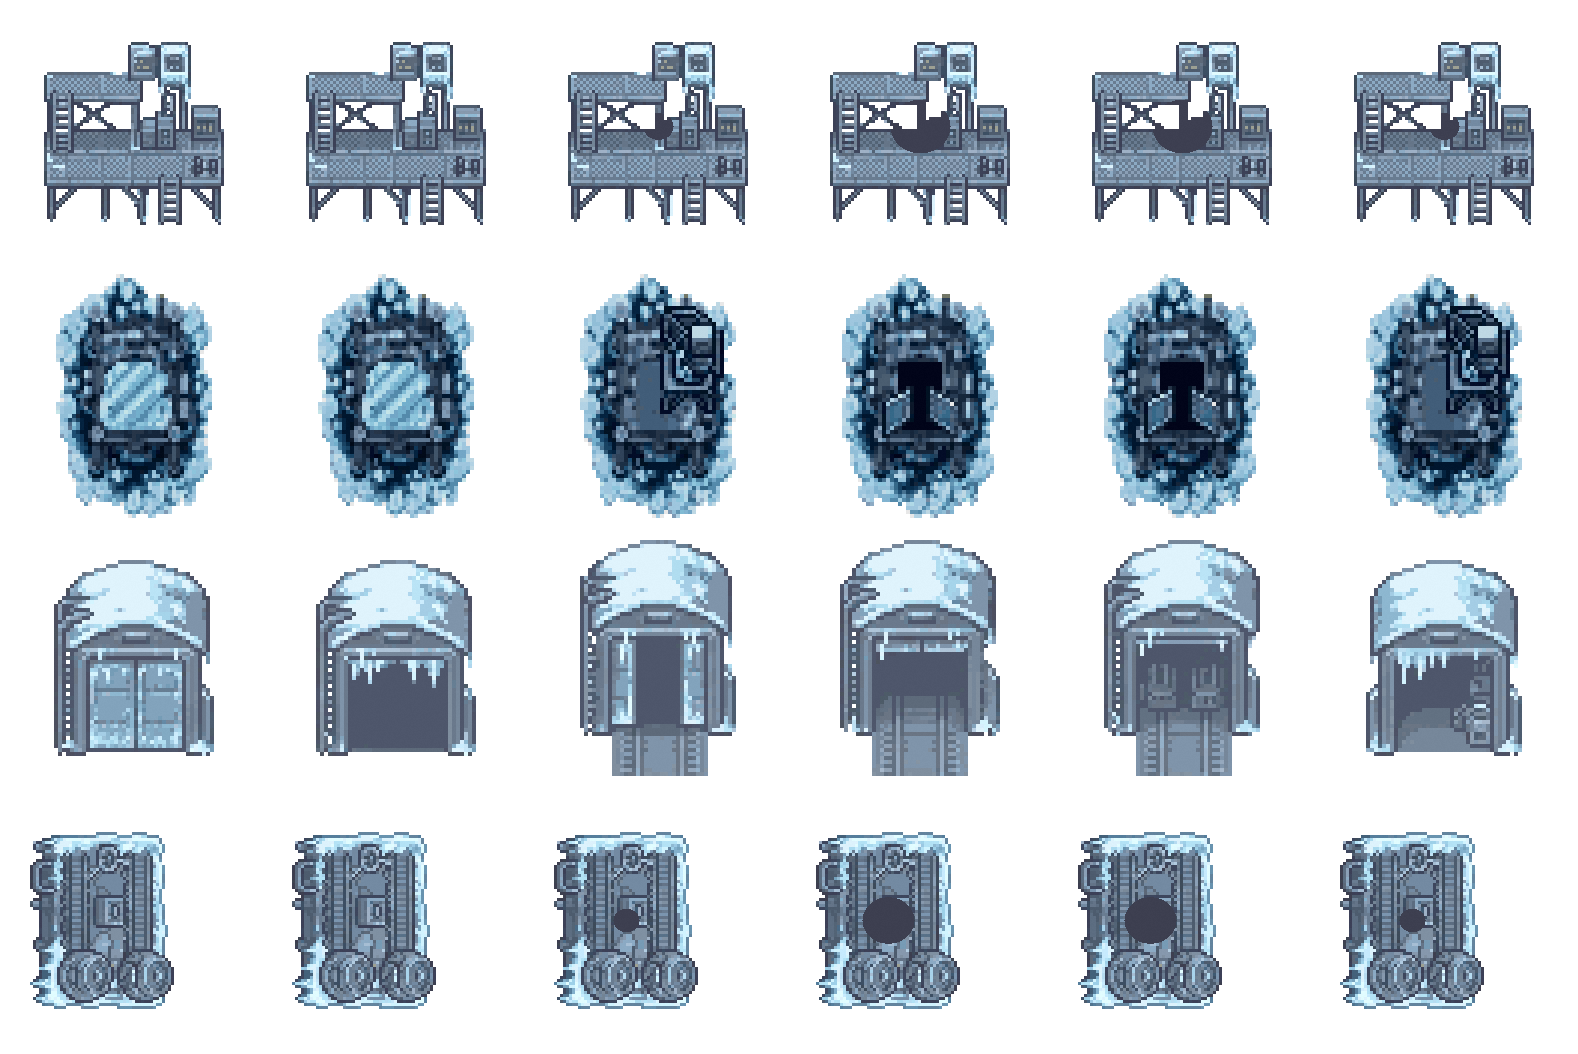
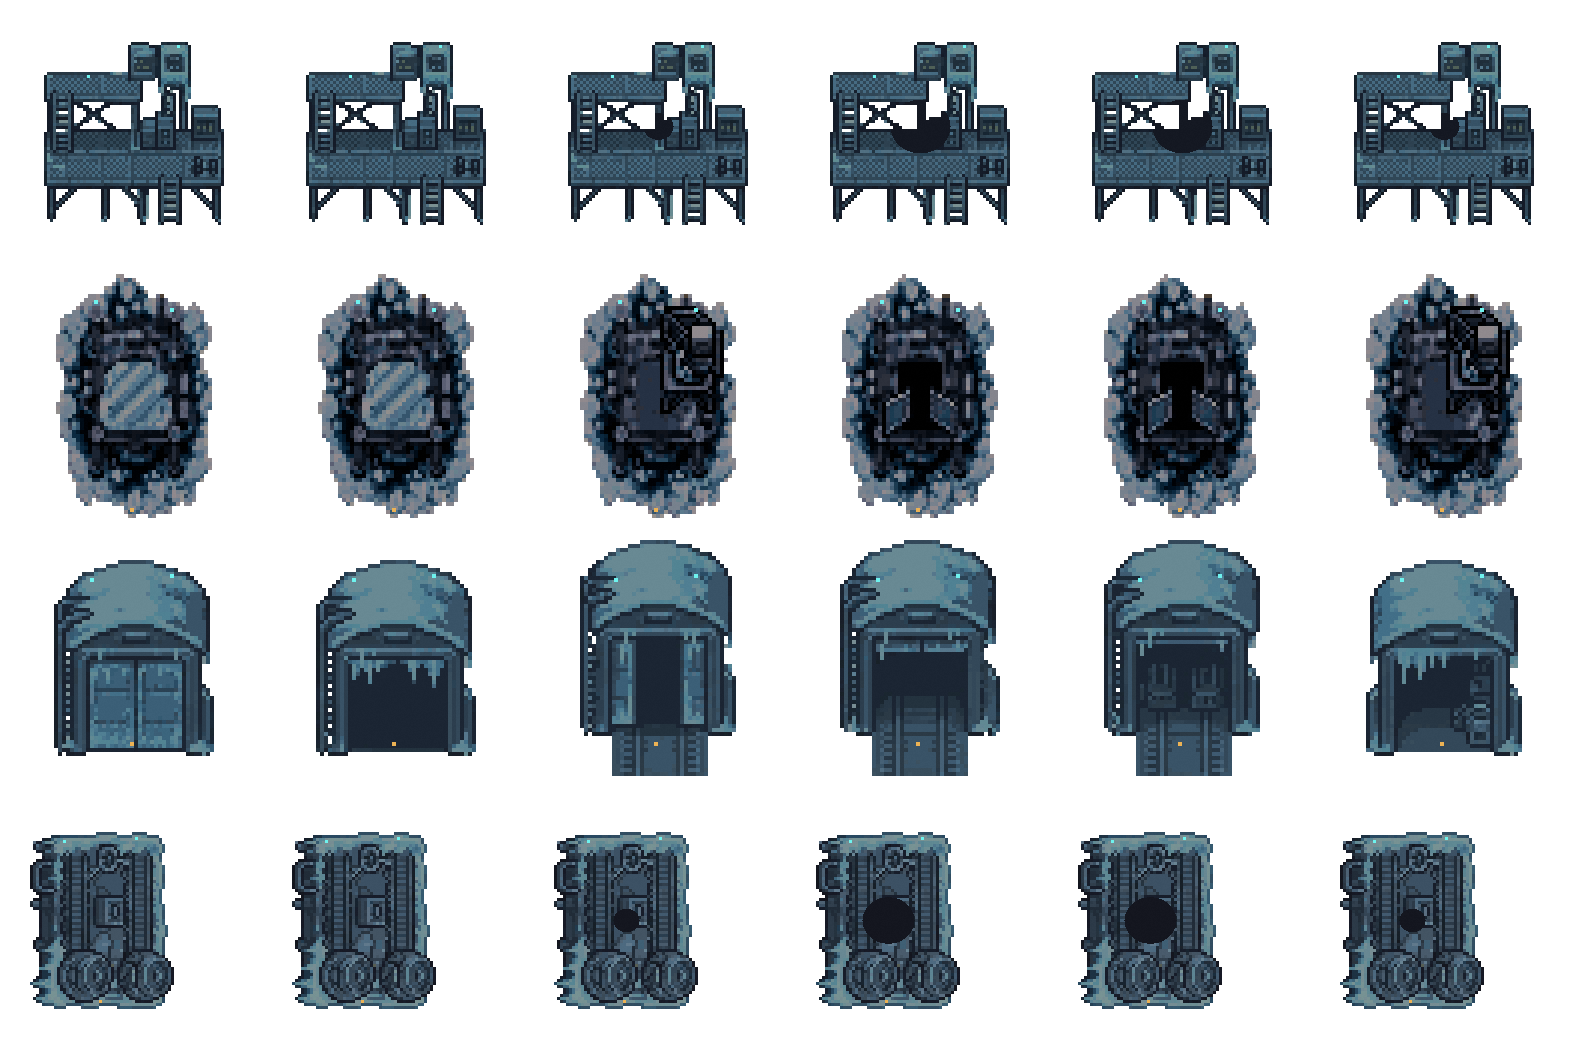
Frost docks and launch sites: cool blue tone and lit lamps, matching the landmarks

diff --git a/Pause/Assets/Art/Worlds/Frost/backdrop_v3/src~/frost_redraw/build_atlases.py b/Pause/Assets/Art/Worlds/Frost/backdrop_v3/src~/frost_redraw/build_atlases.py
@@ -287,6 +287,7 @@ AMBIENT = HERE.parents[5] / "Scripts/Worlds/Backdrop/FrostAmbient.cs"
 LIT = {"beacon_cyan": (110, 242, 238), "beacon_magenta": (255, 196, 96), "strobe_white": (205, 244, 248),
        "window_lights": (236, 178, 84), "flare": (255, 196, 96), "searchlight": (205, 244, 248)}
 LANDMARK_CONTRAST, LANDMARK_SAT = 1.4, 1.3
+DOCK_LUM = .27        # painted = drawn (docks are not lifted): near the landmarks' .28 as drawn
 
 
 def bindings():
@@ -299,7 +300,7 @@ def bindings():
     return out
 
 
-def cool(cells, old_sheet, old_js):
+def cool(cells, old_sheet, old_js, only=None, lum_target=None):
     """Lift contrast and saturation (about the family's mean), then take the old atlas's cool blue: the family's
     mean RGB is matched to the old drawings' (per channel)."""
     o = np.asarray(Image.open(old_sheet).convert("RGBA")).astype(np.float64)
@@ -310,7 +311,8 @@ def cool(cells, old_sheet, old_js):
         fam_old.setdefault(family(sp["n"]), []).append(c[..., :3][c[..., 3] > 0])
     groups = {}
     for n in cells:
-        groups.setdefault(family(n), []).append(n)
+        if only is None or n in only:
+            groups.setdefault(family(n), []).append(n)
     for fam, names in groups.items():
         allp = np.concatenate([cells[n][..., :3][cells[n][..., 3] > 0] for n in names]).astype(np.float64)
         mv = allp.max(-1).mean()
@@ -327,10 +329,44 @@ def cool(cells, old_sheet, old_js):
         for n in names:
             on = cells[n][..., 3] > 0
             cells[n][..., :3] = np.where(on[..., None], np.clip(np.rint(tmp[n] * ratio), 0, 255), 0).astype(np.uint8)
+    if lum_target is not None:                         # unlifted art (docks): scale to a painted luminance
+        names = [n for g in groups.values() for n in g]
+        px = np.concatenate([cells[n][cells[n][..., 3] > 0] for n in names]).astype(np.float64)
+        lum = float((px[:, 3] * (px[:, :3] @ [.2126, .7152, .0722])).sum() / px[:, 3].sum() / 255)
+        for n in names:
+            on = cells[n][..., 3] > 0
+            cells[n][..., :3] = np.where(on[..., None], np.clip(np.rint(cells[n][..., :3] * (lum_target / lum)), 0, 255), 0).astype(np.uint8)
     return cells
 
 
-def light_up(cells, pick, table):
+def strip_lamps(frames, block, colours=("beacon_cyan", "window_lights")):
+    """A launch strip's lamps: two lit source pixels at the top of the drawing, a quarter in from each side (the
+    topmost drawn block in that column of the idle cell), the same spots in all six cells (so no cell is brighter
+    than idle), plus one amber at the drawing's lowest centre block."""
+    idle = frames[0]
+    on = idle[..., 3] > 0
+    xs = np.nonzero(on.any(0))[0]
+    x0, x1 = xs.min(), xs.max()
+    spots = []
+    for fx, col in ((.25, colours[0]), (.75, colours[0])):
+        gx = int(x0 + (x1 - x0) * fx) // block * block
+        for gy in range(0, idle.shape[0] - block, block):
+            if on[gy:gy + block, gx:gx + block].all():
+                spots.append((gx, gy + block, col))    # one block in from the outline
+                break
+    gx = (x0 + x1) // 2 // block * block
+    for gy in range(idle.shape[0] - block, 0, -block):
+        if on[gy:gy + block, gx:gx + block].all():
+            spots.append((gx, gy - block, colours[1]))
+            break
+    for c in frames:
+        for x, y, col in spots:
+            if (c[y:y + block, x:x + block, 3] > 0).all():
+                c[y:y + block, x:x + block, :3] = LIT[col]
+    return len(spots)
+
+
+def light_up(cells, pick, table, alias=None):
     """A few lit lamp pixels (one 4 x 4 source pixel each, on the drawing's grid): at each of the piece's
     beacon / strobe emitter points (the topmost drawn pixel within 20 px), a short row of three at its window
     point, and the pick's own lamp-pod texels (green in the drawing) turned cyan. Returns {frame: count}."""
@@ -346,7 +382,7 @@ def light_up(cells, pick, table):
         green = (src_cell[..., 3] > 0) & (f[..., 1] == mx) & (mx - mn > .3) & (f[..., 1] - f[..., 2] > .1)
         for y, x in zip(*np.nonzero(green)):
             lit.append((x * 4, y * 4, LIT["beacon_cyan"]))
-        for loop, x, y in bind.get(n, []):
+        for loop, x, y in bind.get((alias or {}).get(n, n), []):
             if loop not in LIT:
                 continue
             gx, gy = x // 4 * 4, y // 4 * 4
@@ -381,6 +417,11 @@ def build_landmarks():
 
 def build_sites():
     cells = ground_atlas("sites", SITES, extra=site_lamps())
+    cells = cool(cells, OLD / "sites.png", OLD / "sites.json", only=set(SITES))
+    table = dict(SITES)
+    lit = light_up(cells, src("sites"), table, alias={n: n.rsplit("_", 1)[0] + "_closed" if not n.endswith("idle") and not n.endswith("active")
+                                                       else "padring_idle" for n in SITES})
+    print("sites lit lamp pixels:", lit)
     sheet, js = sheet_from_cells("sites", cells, (1024, 1024))
     return save("sites", sheet, js, 102)
 
@@ -657,6 +698,11 @@ def build_docks():
         v, al = OLD_TONE["dock_" + tag]
         for i, c in enumerate(tone(fr, v, al)):
             named[f"{tag}_{i:02d}"] = no_red(c)
+    # the landmarks' tone pass: contrast, the old docks' cool blue, painted luminance DOCK_LUM (docks draw unlifted)
+    named = cool(named, OLD / "docks.png", OLD / "docks.json", lum_target=DOCK_LUM)
+    for tag in cells:
+        frames = [named[f"{tag}_{i:02d}"] for i in range(6)]
+        print(f"docks {tag}: {strip_lamps(frames, 3 if tag in ('rig', 'icebreaker') else 4)} lamps")
     sheet, js = sheet_from_cells("docks", named, (1578, 1054))
     save("docks", sheet, js, 109)
     return named, pads
